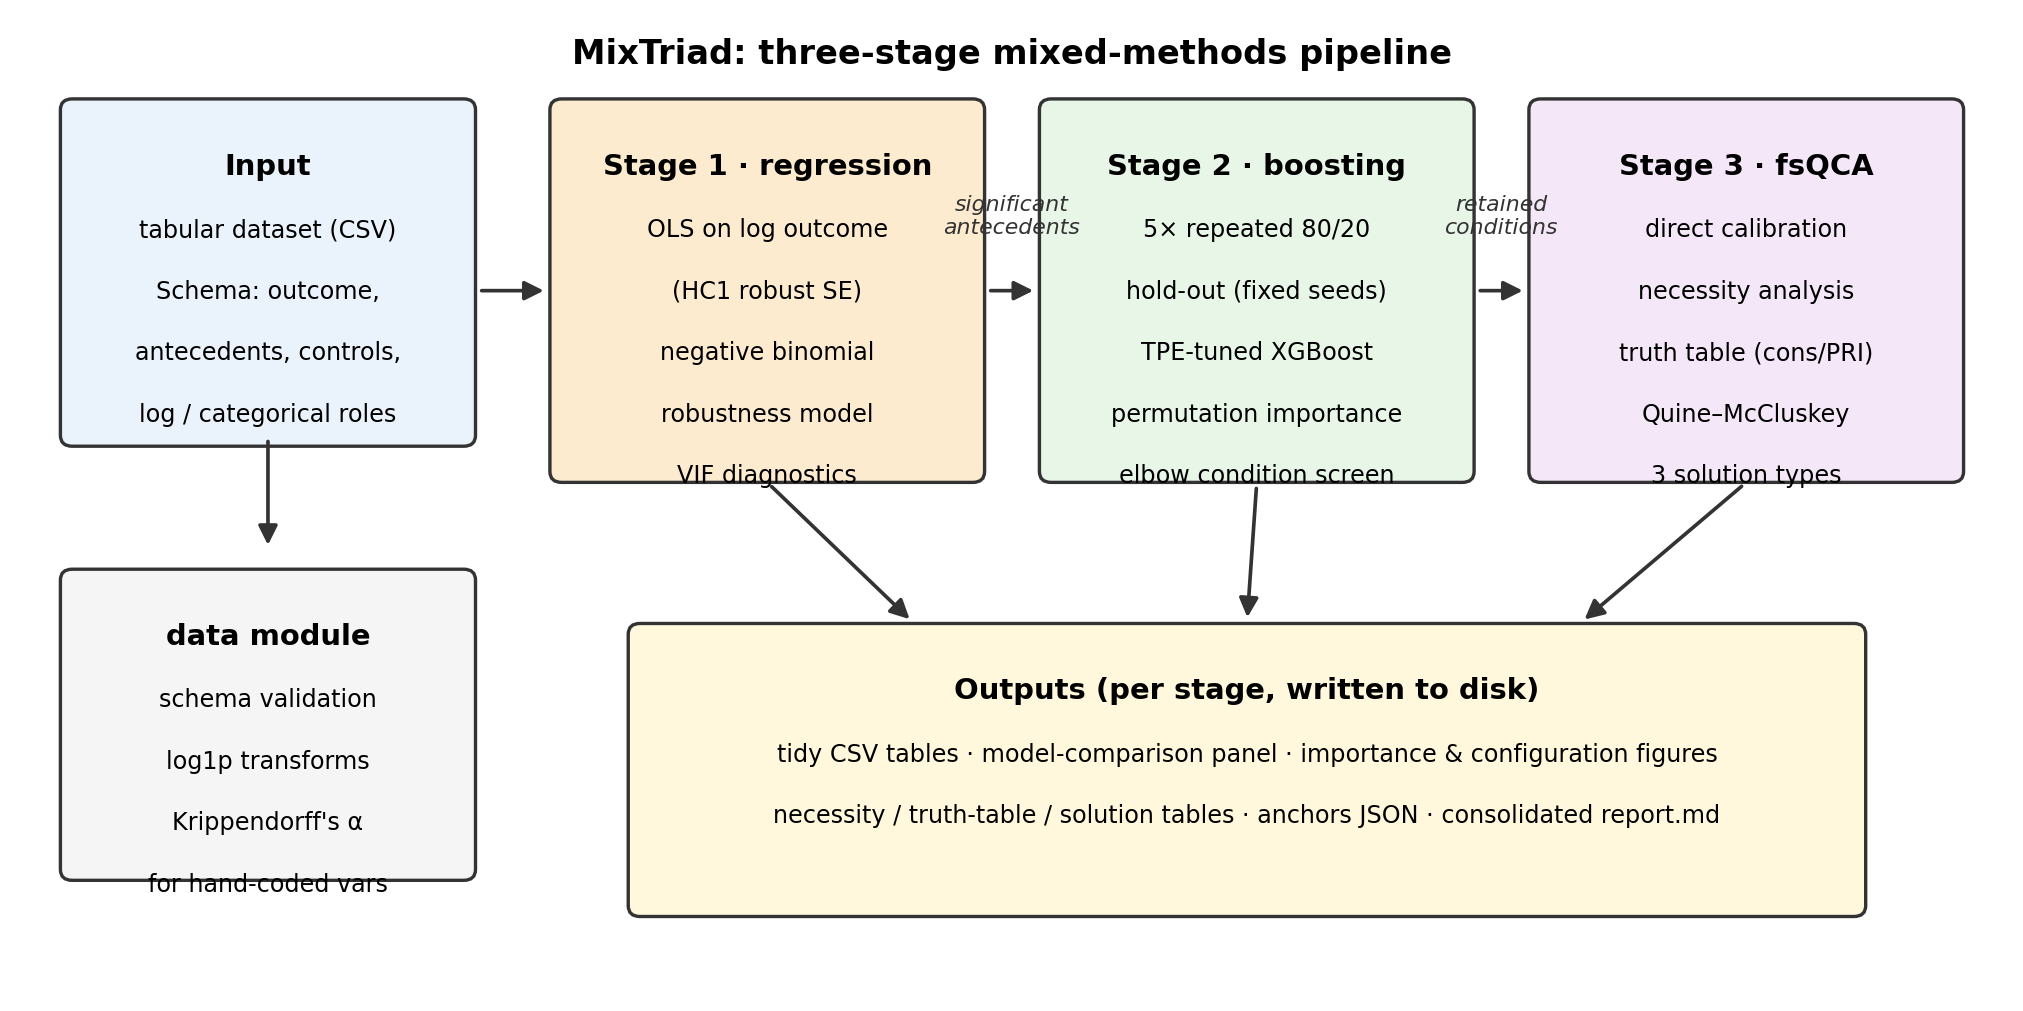
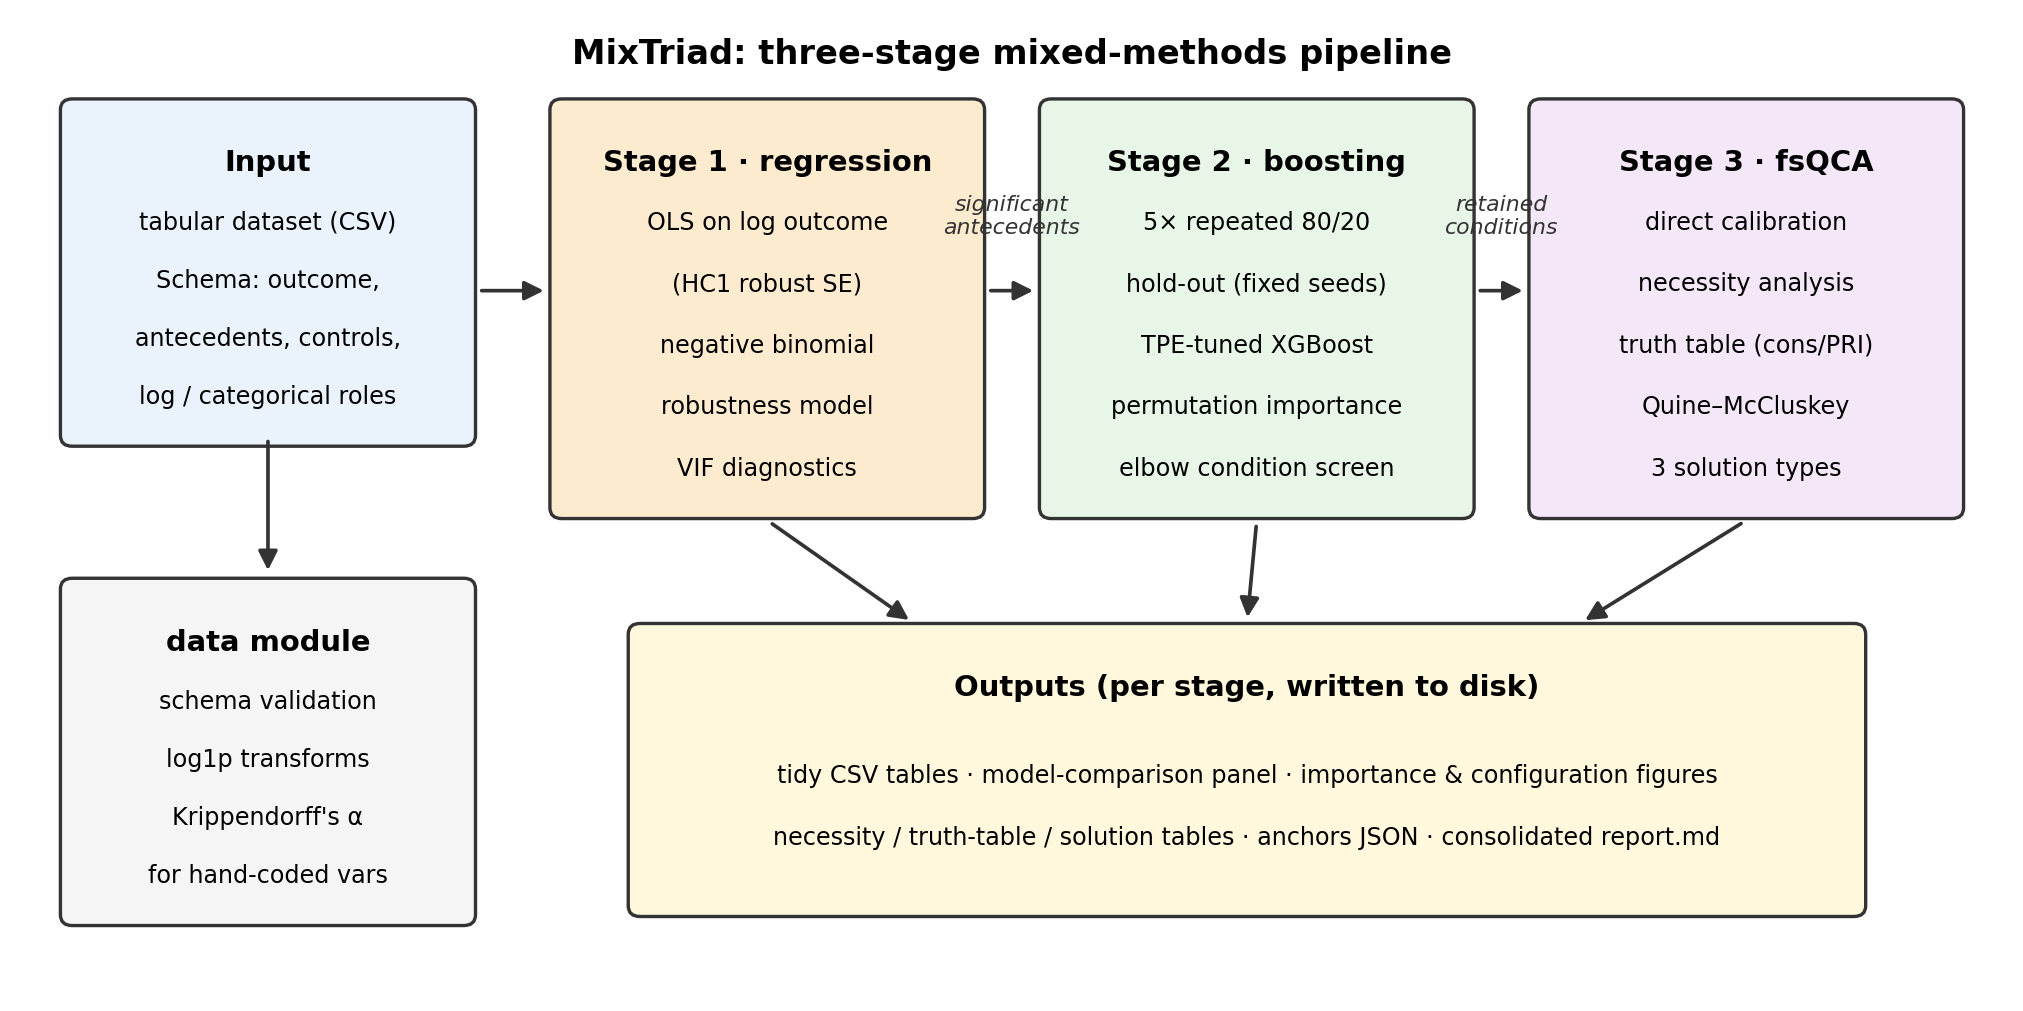
Add files via upload

diff --git a/docs/make_architecture.py b/docs/make_architecture.py
@@ -10,10 +10,13 @@ ax.set_xlim(0, 100); ax.set_ylim(0, 52); ax.axis("off")
 def box(x, y, w, h, title, lines, fc):
     ax.add_patch(FancyBboxPatch((x, y), w, h, boxstyle="round,pad=0.6",
                                 fc=fc, ec="#333333", lw=1.1))
-    ax.text(x + w/2, y + h - 3.1, title, ha="center", va="center",
+    ax.text(x + w/2, y + h - 2.9, title, ha="center", va="center",
             fontsize=9.5, fontweight="bold")
+    top, bottom = y + h - 6.2, y + 2.2          # text band inside the box
+    step = min((top - bottom) / max(len(lines) - 1, 1), 3.4)
+    start = (top + bottom + step * (len(lines) - 1)) / 2   # centre the block
     for i, l in enumerate(lines):
-        ax.text(x + w/2, y + h - 6.6 - 3.4*i, l, ha="center", va="center", fontsize=7.8)
+        ax.text(x + w/2, start - step * i, l, ha="center", va="center", fontsize=7.8)
 
 def arrow(x1, y1, x2, y2, label=None, dy=1.6):
     ax.add_patch(FancyArrowPatch((x1, y1), (x2, y2), arrowstyle="-|>",
@@ -25,18 +28,18 @@ def arrow(x1, y1, x2, y2, label=None, dy=1.6):
 # input layer
 box(2, 30, 20, 18, "Input", ["tabular dataset (CSV)", "Schema: outcome,", "antecedents, controls,",
                              "log / categorical roles"], "#EAF2FB")
-box(2, 6, 20, 16, "data module", ["schema validation", "log1p transforms",
+box(2, 3.5, 20, 18, "data module", ["schema validation", "log1p transforms",
                                   "Krippendorff's \u03b1", "for hand-coded vars"], "#F5F5F5")
-arrow(12, 30, 12, 23.6)
+arrow(12, 30, 12, 22.2)
 
 # stage 1
-box(27, 28, 21, 20, "Stage 1 \u00b7 regression", ["OLS on log outcome", "(HC1 robust SE)",
+box(27, 26, 21, 22, "Stage 1 \u00b7 regression", ["OLS on log outcome", "(HC1 robust SE)",
                                      "negative binomial", "robustness model", "VIF diagnostics"], "#FDEBD0")
 # stage 2
-box(52, 28, 21, 20, "Stage 2 \u00b7 boosting", ["5\u00d7 repeated 80/20", "hold-out (fixed seeds)",
+box(52, 26, 21, 22, "Stage 2 \u00b7 boosting", ["5\u00d7 repeated 80/20", "hold-out (fixed seeds)",
                                     "TPE-tuned XGBoost", "permutation importance", "elbow condition screen"], "#E8F6E8")
 # stage 3
-box(77, 28, 21, 20, "Stage 3 \u00b7 fsQCA", ["direct calibration", "necessity analysis",
+box(77, 26, 21, 22, "Stage 3 \u00b7 fsQCA", ["direct calibration", "necessity analysis",
                                   "truth table (cons/PRI)", "Quine\u2013McCluskey", "3 solution types"], "#F4E7F7")
 
 arrow(22.6, 38, 26.4, 38)
@@ -48,7 +51,7 @@ box(31, 4, 62, 15, "Outputs (per stage, written to disk)",
     ["tidy CSV tables \u00b7 model-comparison panel \u00b7 importance & configuration figures",
      "necessity / truth-table / solution tables \u00b7 anchors JSON \u00b7 consolidated report.md"],
     "#FFF8DC")
-arrow(37.5, 27.4, 45, 19.6); arrow(62.5, 27.4, 62, 19.6); arrow(87.5, 27.4, 79, 19.6)
+arrow(37.5, 25.3, 45, 19.6); arrow(62.5, 25.3, 62, 19.6); arrow(87.5, 25.3, 79, 19.6)
 
 ax.text(50, 50.6, "MixTriad: three-stage mixed-methods pipeline", ha="center",
         fontsize=11, fontweight="bold")
